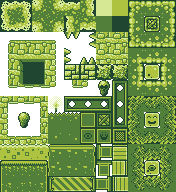
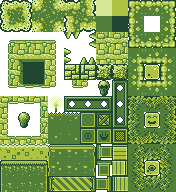
update assets for platformer experiment

diff --git a/platformer/src/MenuState.cpp b/platformer/src/MenuState.cpp
@@ -27,12 +27,13 @@ source distribution.
 
 #include "MenuState.hpp"
 #include "StateIDs.hpp"
-#include "ResourceIDs.hpp"
 
 #include <xyginext/ecs/components/Transform.hpp>
 #include <xyginext/ecs/components/Drawable.hpp>
+#include <xyginext/ecs/components/Sprite.hpp>
 #include <xyginext/ecs/components/Camera.hpp>
 
+#include <xyginext/ecs/systems/SpriteSystem.hpp>
 #include <xyginext/ecs/systems/RenderSystem.hpp>
 #include <xyginext/ecs/systems/CameraSystem.hpp>
 
@@ -102,28 +103,41 @@ void MenuState::initScene()
 {
     auto& mb = getContext().appInstance.getMessageBus();
 
+    m_backgroundScene.addSystem<xy::SpriteSystem>(mb);
     m_backgroundScene.addSystem<xy::CameraSystem>(mb);
     m_backgroundScene.addSystem<xy::RenderSystem>(mb);
 }
 
 void MenuState::loadResources()
 {
+    m_textureIDs[TextureID::Menu::Background] = m_resources.load<sf::Texture>("assets/images/gearboy/background.png");
+
     m_shaders.preload(ShaderID::TileMap, tilemapFrag, sf::Shader::Fragment);
 }
 
 void MenuState::buildBackground()
 {
+    auto entity = m_backgroundScene.createEntity();
+    entity.addComponent<xy::Transform>().setScale(4.f, 4.f); //TODO programmatic way of calc scale
+    entity.addComponent<xy::Drawable>().setDepth(-51); //TODO constify
+    entity.addComponent<xy::Sprite>(m_resources.get<sf::Texture>(m_textureIDs[TextureID::Menu::Background]));
+
+    entity = m_backgroundScene.createEntity();
+    entity.addComponent<xy::Transform>().setScale(4.f, 4.f); //TODO programmatic way of calc scale
+    entity.addComponent<xy::Drawable>().setDepth(-50); //TODO constify
+    entity.addComponent<xy::Sprite>(m_resources.get<sf::Texture>(m_textureIDs[TextureID::Menu::Background]));
+    entity.getComponent<xy::Sprite>().setTextureRect({ 0.f, 272.f, 480.f, 82.f });
+
     //TODO check player/game progress and load background correspondingly
     if (m_mapLoader.load("menu.tmx"))
-    //m_mapLoader.load("menu.tmx");
     {
         const auto& layers = m_mapLoader.getLayers();
 
         //for each layer create a drawable in the scene
-        std::int32_t startDepth = -50;
+        std::int32_t startDepth = -49;
         for (const auto& layer : layers)
         {
-            auto entity = m_backgroundScene.createEntity();
+            entity = m_backgroundScene.createEntity();
             entity.addComponent<xy::Transform>();
             entity.addComponent<xy::Drawable>().setDepth(startDepth++);
             entity.getComponent<xy::Drawable>().setTexture(layer.indexMap);

diff --git a/platformer/include/MenuState.hpp b/platformer/include/MenuState.hpp
@@ -28,6 +28,7 @@ source distribution.
 #pragma once
 
 #include "MapLoader.hpp"
+#include "ResourceIDs.hpp"
 
 #include <xyginext/core/State.hpp>
 #include <xyginext/ecs/Scene.hpp>
@@ -55,6 +56,8 @@ private:
 
     xy::ShaderResource m_shaders;
     xy::ResourceHandler m_resources;
+
+    std::array<std::size_t, TextureID::Menu::Count> m_textureIDs;
 
     MapLoader m_mapLoader;
 

diff --git a/platformer/include/ResourceIDs.hpp b/platformer/include/ResourceIDs.hpp
@@ -25,3 +25,16 @@ namespace ShaderID
         TileMap
     };
 }
+
+namespace TextureID
+{
+    namespace Menu
+    {
+        enum
+        {
+            Background,
+
+            Count
+        };
+    }
+}
